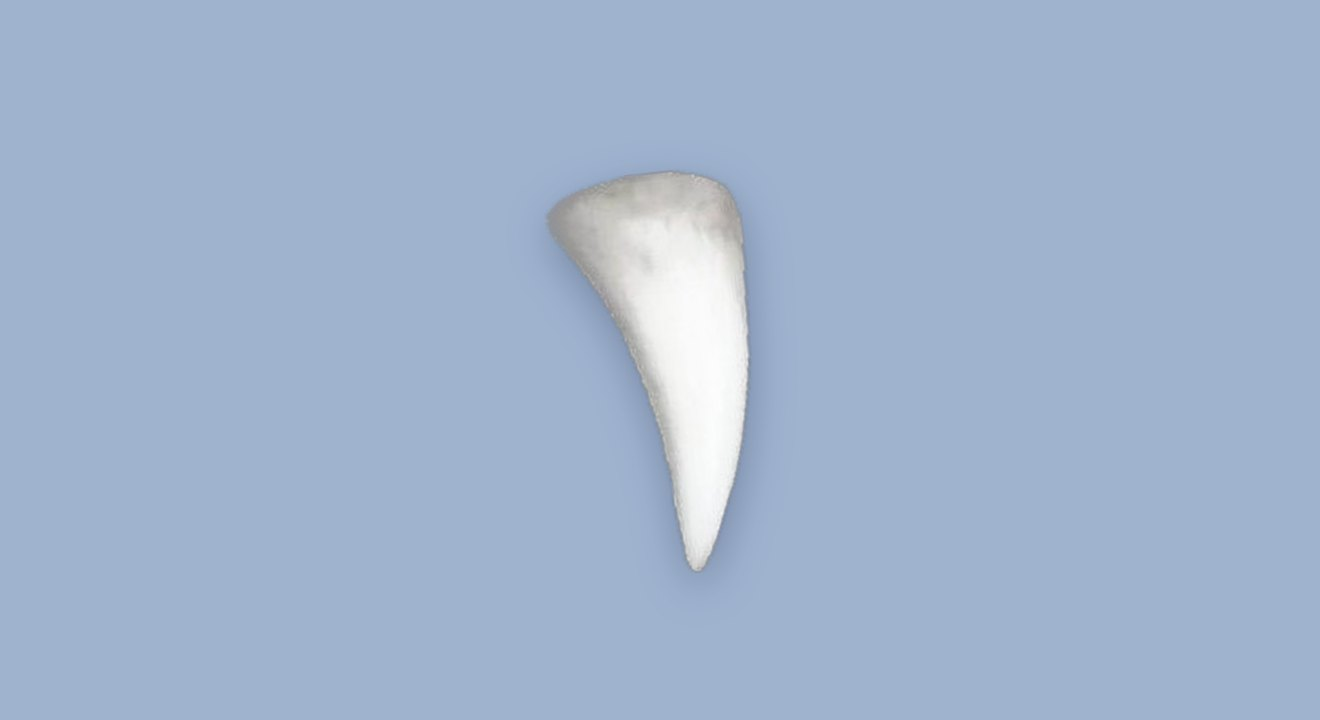
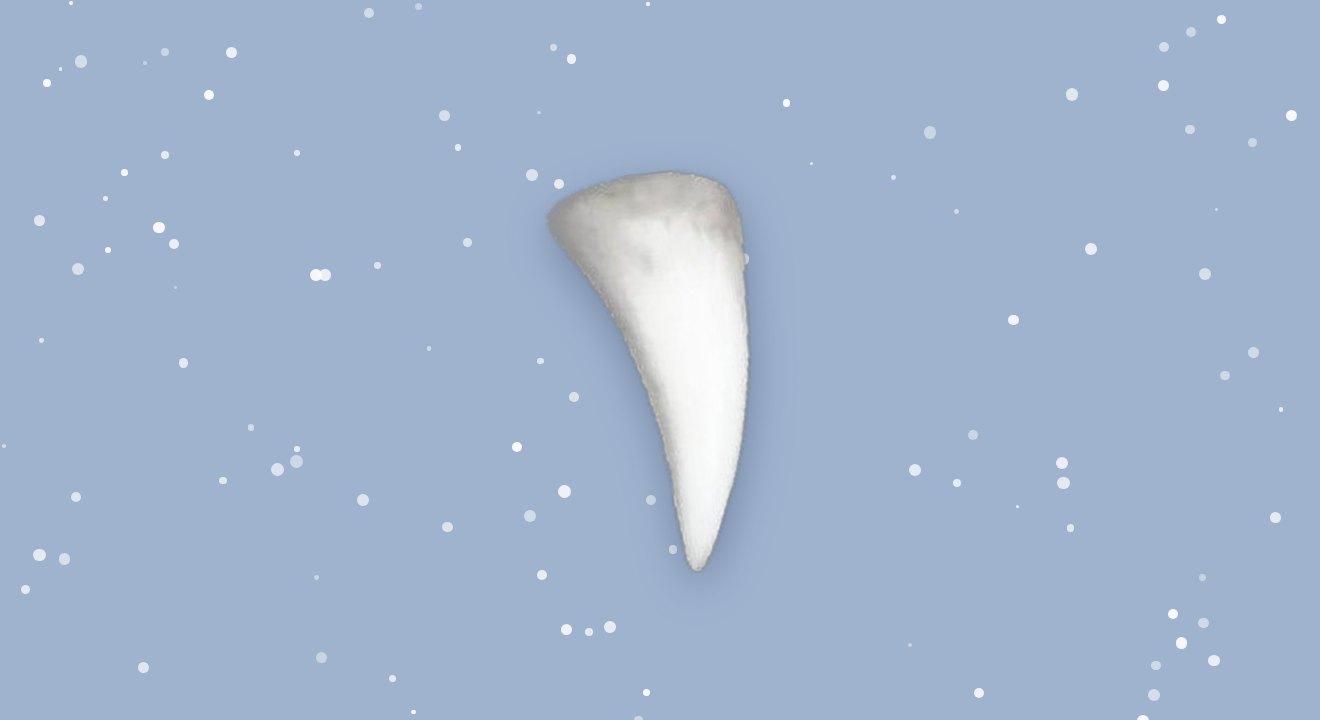
잠자코: 스마일 ! 표지에 눈 다시 넣음, 제목 칸 하늘색
Claude-Session: https://claude.ai/code/session_0194avCRYRzDb3VVAcuc81Ng

diff --git a/jamjako/index.html b/jamjako/index.html
@@ -197,7 +197,7 @@
     .modal-body .jam-notes + .jam-bio { margin-top: 2em; }
 
     /* 글마다 다른 폰트·색: posts.js의 look: '이름' → .look-이름 */
-    .look-smile .modal-head { background: #dde7f4; color: #20263a; }
+    .look-smile .modal-head { background: #9fb3cf; color: #fff; }
     .look-smile .modal-title { font-family: 'KCC PakKyongni', var(--kart); font-weight: 400; font-size: 2.2rem; }
     .look-smile .modal-body { font-family: 'Gowun Dodum', var(--serif); }
     .look-upbo .modal-head { background: #e8622c; }
